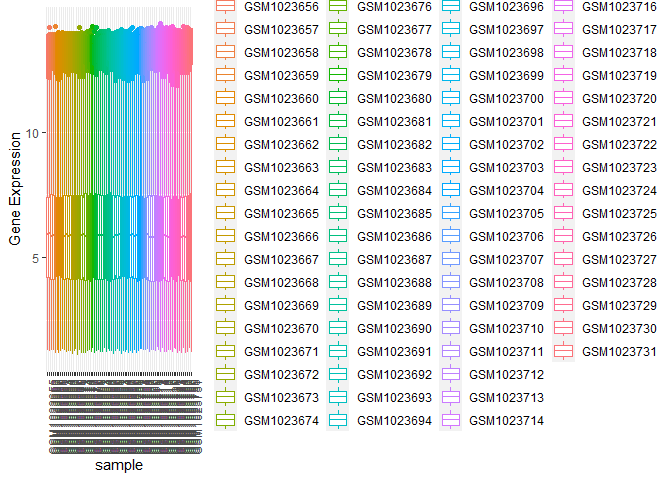
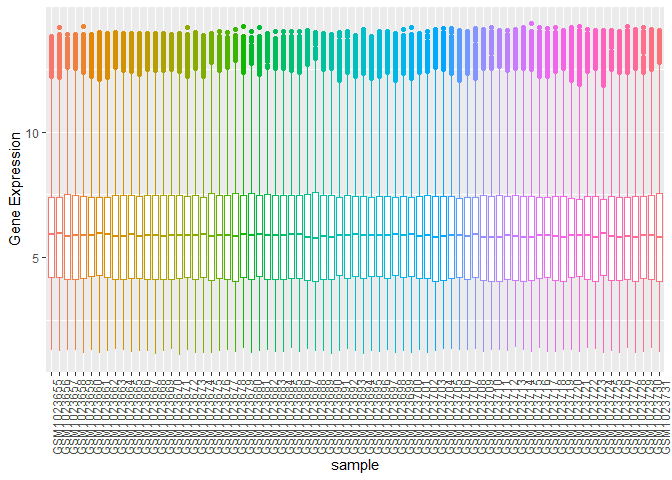
addressed NA

diff --git a/GSE41762_microarray_RNA.md b/GSE41762_microarray_RNA.md
@@ -391,7 +391,7 @@ options(repr.plot.width = 30, repr.plot.height =2)
 toLonger(express) %>% 
   ggplot(aes(x=sample_id, y= Expression, color=sample_id)) +
   geom_boxplot() + 
-  theme(axis.text.x = element_text(angle = 90, hjust = 1)) + 
+  theme(axis.text.x = element_text(angle = 90, hjust = 1),legend.position = "none") + 
   labs(x = "sample", y = "Gene Expression") 
 ```
 
@@ -469,17 +469,17 @@ deGenesOb <- topTable(lmFitEb, number = Inf, adjust.method="BH", p.value = 0.05,
 ### Examine the effect of T2D only on DE
 
 ``` r
-modm <- model.matrix(~BMI, MetaData)
+modm <- model.matrix(~status, MetaData)
 lmFitEb <- eBayes(lmFit(express, modm))
 
-deGenesT2d <- topTable(lmFitEb, number = Inf, adjust.method="BH", p.value = 0.05, coef= "BMIover30")
+deGenesT2d <- topTable(lmFitEb, number = Inf, adjust.method="BH", p.value = 0.05, coef= "statust2d")
 ```
 
-One DE gene was found in T2D vs. healthy individuals
+19 DE genes were found in T2D vs. healthy individuals
 
 ### Saving relevant data for aim 2 gene enrichment analysis
 
-- Data can be loaded into Aim 2 analysis using
-  readRDS(“ObvsNonObHealthy.RDS”)
-
 saveRDS(degT2dNonOb, file = “ObvsNonObHealthy.RDS”)
+
+- Result can be loaded into Aim 2 analysis with
+  `readRDS("ObvsNonObHealthy.RDS")`
